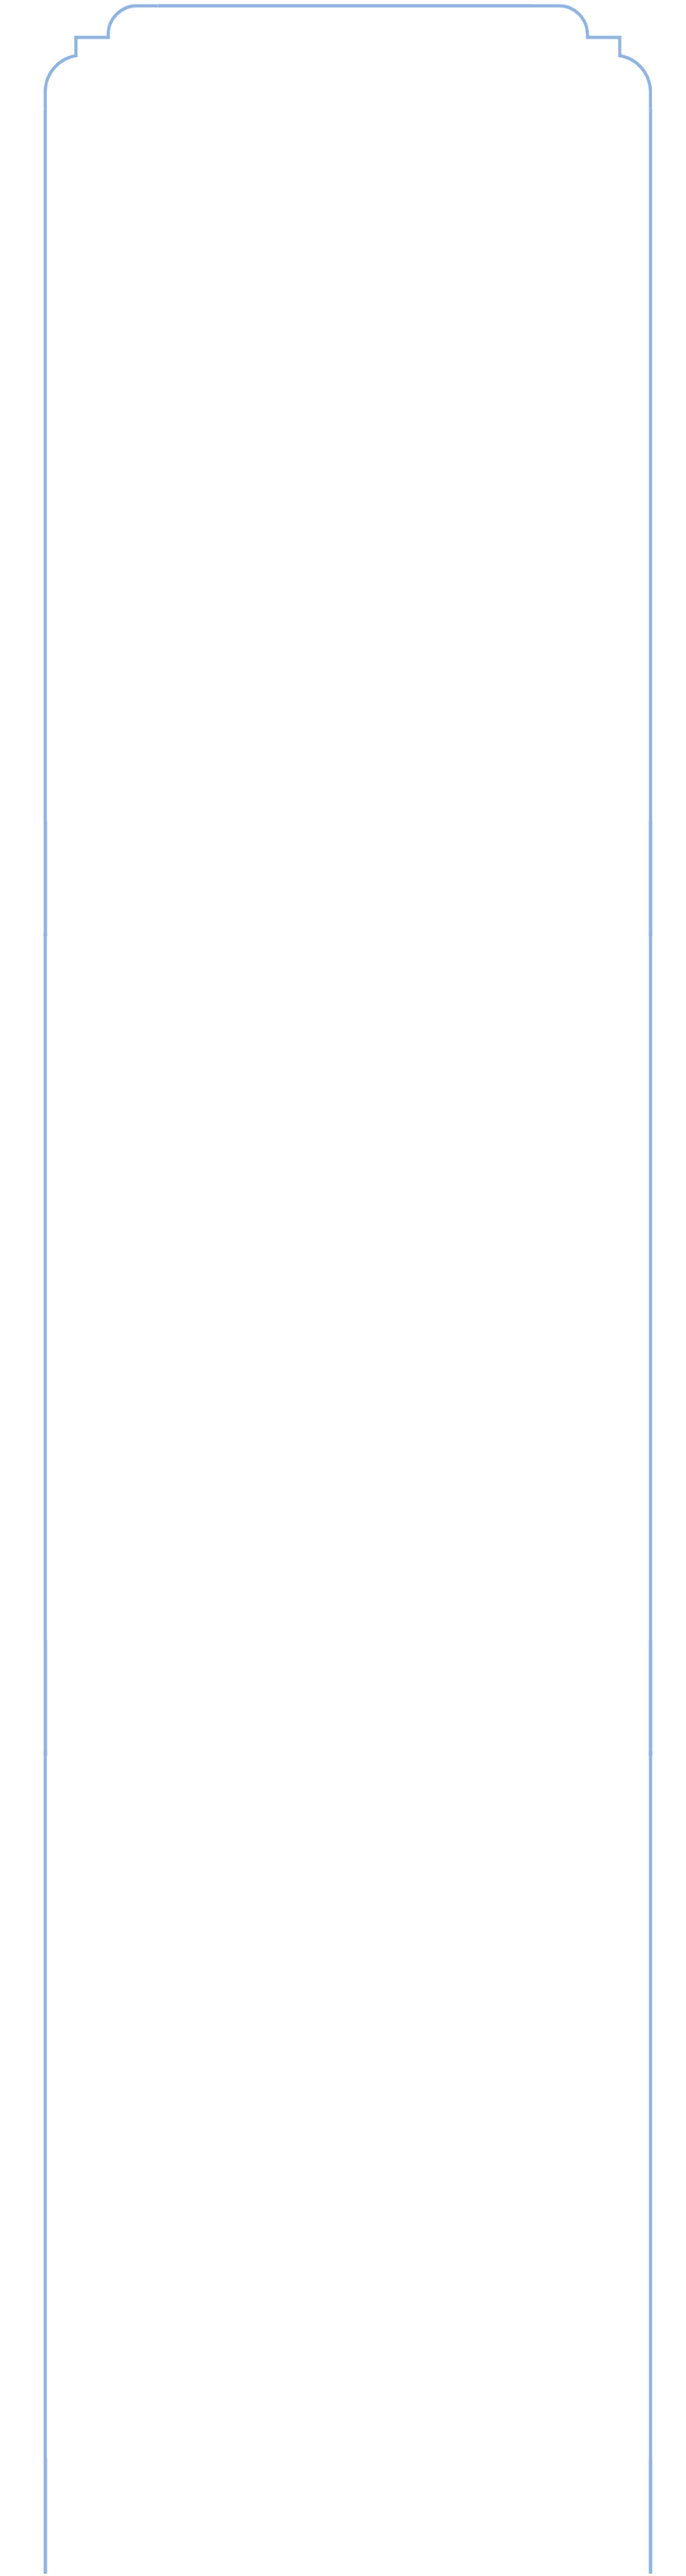
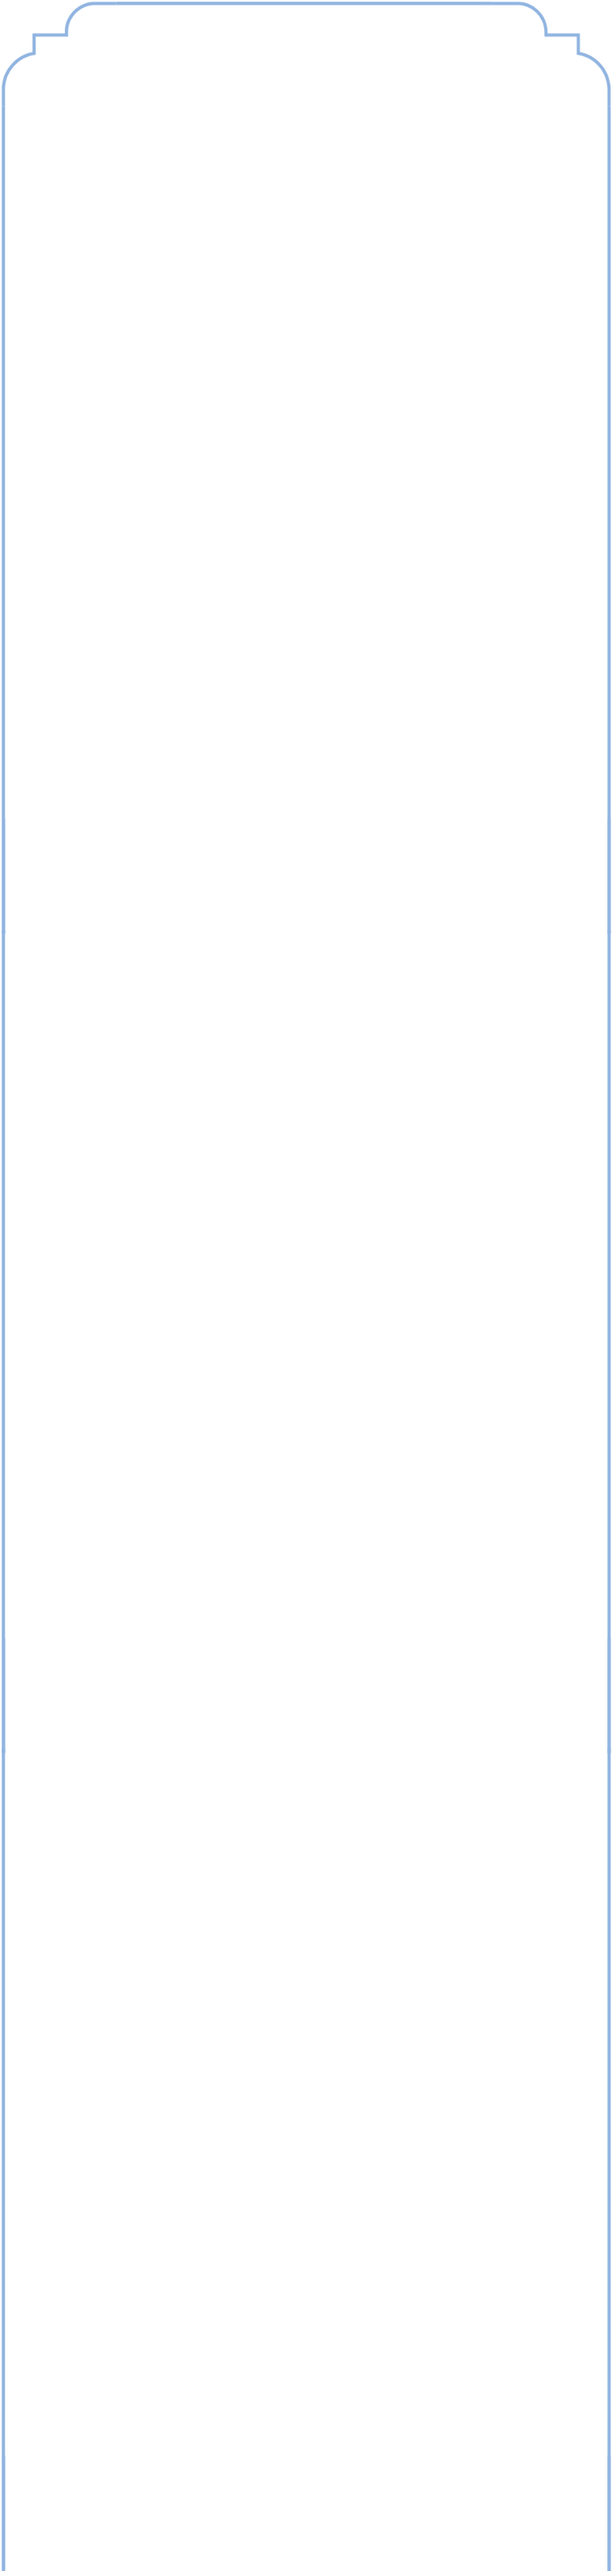
Ajuste no Arco

diff --git a/src/views/ConviteView.vue b/src/views/ConviteView.vue
@@ -62,16 +62,18 @@
             <a class="align-content-center" target="_blank" href="https://wa.me/5563991034819?text=Ol%C3%A1,%20gostaria%20de%20confirmar%20minha%20presen%C3%A7a%20no%20casamento%20de%20Alberto%20e%20Silvia">
               <img src="@/assets/img/confirme.png" />
             </a>
-            <!-- <router-link to="manual">
-            </router-link> -->
+            
             <a class="align-content-center" target="_blank" href="https://drive.google.com/file/d/1FEY-bQOHHmZ0pSg7qvqTPMejU59MXWgo/view">
               <img src="@/assets/img/manual.png" />
             </a>
           </div>
+          
           <div class="interagir mb-5">
             <img  src="@/assets/img/click.png">
             CLIQUE NOS ÍCONES PARA INTERAGIR
           </div>
+
+        
         </div>
       </div>
     </div>
@@ -124,7 +126,7 @@
   background-image: 
     url('@/assets/flores-baixo.png'),
     url('@/assets/img/arco.png');
-  background-size: 95%, cover;
+  background-size: 95%, 88%;
   background-repeat: no-repeat, no-repeat;
   background-position: bottom center, top center;
   margin-left: 1rem;
